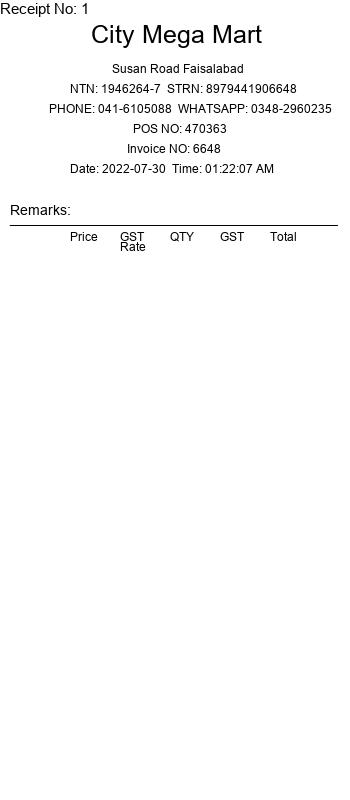
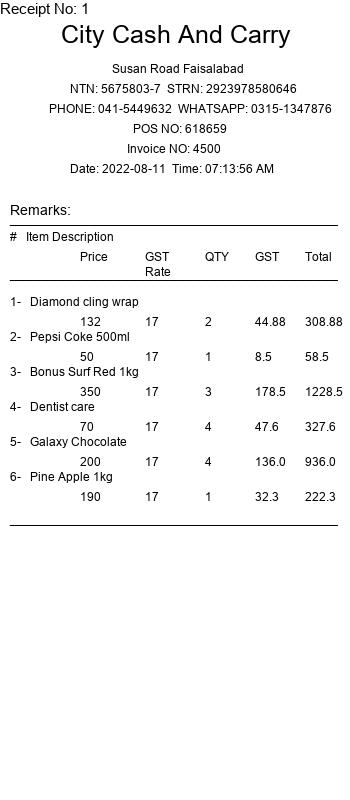
add dynamic items

diff --git a/invoice_generator.py b/invoice_generator.py
@@ -63,6 +63,7 @@ def random_contact():
     left_space_ = measure_pixel(font, contact_)
     return left_space_, contact_, font
 
+
 def random_pos_num():
     font = 12
     POS = random.randint(123456, 789898)
@@ -70,12 +71,52 @@ def random_pos_num():
     left_space_ = measure_pixel(font, pos_num)
     return left_space_, pos_num, font
 
+
 def random_invoice_num():
     font = 12
-    INV = random.randint(1234, 9898)
+    INV = random.randint(1, 9898)
     inv_num = f"Invoice NO: {str(INV)}"
     left_space_ = measure_pixel(font, inv_num)
     return left_space_, inv_num, font
+
+
+def random_items():
+    final_data = ''
+    GST_RATE = 17
+    items = [{"Name": "Diamond cling wrap", "Price": 132}, {"Name": "Pepsi Coke 500ml", "Price": 50},
+             {"Name": "Bonus Surf Red 1kg", "Price": 350}, {"Name": "Dentist care", "Price": 70},
+             {"Name": "Galaxy Chocolate", "Price": 200}, {"Name": "Pine Apple 1kg", "Price": 190}]
+
+    y_axis = 295
+    sub_total = 0
+    for num in range(len(items)):
+        random_quantity = [4, 2, 1, 3]
+        random.shuffle(random_quantity)
+        random_qty_number = random.choice(random_quantity)
+        item = items[num]
+        y_axis_price = y_axis + 20
+        item_gst = round((17 / 100) * (item['Price'] * random_qty_number), 2)
+        total = (item['Price'] * random_qty_number) + item_gst
+        file_ = open('random_item_temp.txt', 'r')
+        data_ = file_.read()
+        data_ = data_ % (
+            y_axis, str(num+1) + '-   ' + item['Name'], y_axis_price, item['Price'], y_axis_price, GST_RATE, y_axis_price, random_qty_number,
+            y_axis_price, item_gst,  y_axis_price, total)
+        file_.close()
+        # data_ = data_ % ("a","a","a","a","a","a","a","a","a","a","a","a""a")
+        final_data += data_
+        sub_total += total
+        y_axis += 35
+    final_data += """{
+            "x": 10,
+            "y": %s,
+            "text": "_________________________________________",
+            "font": "arial.ttf",
+            "size": 14,
+            "color": "#000000"
+        },""" % (y_axis_price+20)
+    return sub_total, final_data
+
 
 file = open('simple.txt', 'r')
 data = file.read()
@@ -91,6 +132,11 @@ data = data % (
     contact_left_space, contact, contact_font_size, pos_left_space, pos, pos_font_size,
     inv_left_space, inv, inv_font_size,
     time_left_space, date_time, time_font_size)
+sub_total, item_data = random_items()
+print(sub_total)
+data += item_data
+last = """]}"""
+data = data + last
 data = ast.literal_eval(data)
 print(data)
 

diff --git a/practice.py b/practice.py
@@ -1,0 +1,38 @@
+# import random
+#
+# a = [{1: 'a'}, {1: 'b'}, {3: 'c'}]
+# random.shuffle(a)
+# print(random.choice(a))
+# qty = random.randint(1, 5)
+# print(qty)
+#
+# a = 'This text is \textbf{bold}'
+# print(a)
+
+import requests
+
+# Set the API key and project ID for the task you want to create
+api_key = '1/1203688304924514:c992f71e20aebc5ee9a6ffde8ce110e0'
+project_id = '1203688433731989'
+
+# Open the file you want to attach
+file = open('simple_receipt.jpg', 'rb')
+
+# Use the requests library to make a POST request to the Asana API
+url = 'https://app.asana.com/api/1.0/tasks'
+headers = {'Authorization': f'Bearer {api_key}'}
+data = {'data': {
+    'name': 'Task with attachment',
+    'projects': [project_id],
+}}
+
+# Add the file as a part of the request
+response = requests.post(url, headers=headers, data=data, files={'file': file})
+
+# Close the file
+file.close()
+
+# Print the response status code to check if the request was successful
+print(response.text)
+
+
